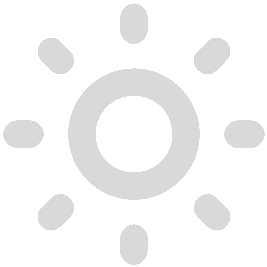
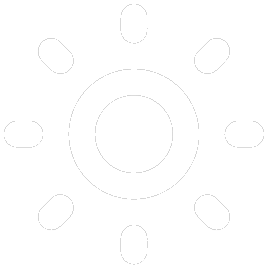
j

diff --git a/index.html b/index.html
@@ -8,47 +8,54 @@
 </head>
 <body>
     <div class="wrapper">
-        <div class="homebouton animate">
-            <img src="assets/img/dark/Home.png"  alt="Home Bouton"  data-img="Home.png">
+        <div class="homebouton">
+            <a href="index.html">
+            <img src="assets/img/dark/Home.png"  alt="Home Bouton"  data-img="Home">
+            </a>
         </div>
 
-        <div class="name animate">
+        <div class="name">
             <p class="familyname">Dassi Vignon</p>
             <p class="firstname">Quentin</p>
         </div>
 
-        <div class="changetheme animate">
-            <img class="lightmodebutton" id="changeColorButton" src="assets/img/dark/Light.png"  alt="Light" data-img="Light.png">
-            <img class="nightmodebutton" id="resetColorButton" src="assets/img/dark/Dark.png"  alt="Night"  data-img="Dark.png">
+        <div class="changetheme">
+            <img class="lightmodebutton" id="changeColorButton" src="assets/img/dark/Light.png"  alt="Light" data-img="Light" style="cursor: pointer;">
+            <img class="nightmodebutton" id="resetColorButton" src="assets/img/dark/Dark.png"  alt="Night"  data-img="Dark" style="cursor: pointer;">
         </div>
 
-        <div class="status animate">
+        <div class="status">
             <p class="etudiant">Étudiant</p>
             <p class="bachelor">Bachelor 1 d'informatique</p>
             <p class="dataengineer">Data Engineer</p>
         </div>
 
-        <div class="photo animate">
-            <!-- <img src="assets/img/photo.jpg" alt="Photo"> -->
+        <div class="photo">
+            <img src="assets/img/dark/photo.png" alt="Photo" data-img="Photo">
         </div>
 
+        
         <div class="contact">
+            <a href="assets/html/projet.html" style="color: inherit; text-decoration: none;">
             <p>Contact</p>
-            <img src="assets/img/fleche.png" alt="fleche.png">
+            <img src="assets/img/dark/fleche.png" alt="fleche.png" data-img="fleche">
+            </a>
         </div>
 
-        <div class="localisation animate">
-            <img src="assets/img/dark/Map.png" alt="Map icon"  data-img="Map.png">
+        <div class="localisation">
+            <img src="assets/img/dark/Map.png" alt="Map icon"  data-img="Map">
             <p>Paris Ynov
 Campus</p>
         </div>
 
         <div class="projet">
-            <p>Projets</p>
-            <img src="assets/img/dark/fleche.png" alt="fleche.png" data-img="fleche.png">
+            <a href="assets/html/projet.html" style="color: inherit; text-decoration: none;">
+                <p>Projets</p>
+                <img src="assets/img/dark/fleche.png" alt="fleche.png" data-img="fleche">
+            </a>
         </div>
     </div>
-    <script src="scrpit.js"></script> 
+    <script src="assets/js/scrpit.js"></script> 
     
 </body>
 </html>

diff --git a/assets/css/index.css b/assets/css/index.css
@@ -8,6 +8,9 @@ body {
     display: flex;
     justify-content: center; 
 }
+a, a:visited, a:hover, a:active {
+    text-decoration: none; 
+}
 
 .wrapper {
     display: grid;
@@ -59,6 +62,7 @@ body {
     grid-row: 1/2;
     text-align: center;
     white-space: nowrap;
+    cursor: default;
 }
 .name:hover {
     transform: scale(1.1);
@@ -113,6 +117,7 @@ body {
     text-align: center;
     white-space: nowrap;
     font-size: 100%;
+    cursor: default;
 }
 .status:hover {
     transform: scale(1.1);
@@ -166,7 +171,7 @@ body {
     top: 50%;
     left: 50%;
     transform: translate(-50%, -50%);
-    width: auto;
+    width: 100%;
     height: 100%;
     max-height: 100%;
     max-width: 100%; 
@@ -178,6 +183,18 @@ body {
 .contact {
     grid-column: 1/3;
     grid-row: 4/5;
+    cursor: pointer;
+}
+.contact a {
+    display: block;  /* Makes the link block-level to fill the div */
+    position: absolute;
+    width: 100%;
+    height: 100%;
+    top: 0;
+    left: 0;
+    text-decoration: none;  /* Removes underline from links */
+    color: inherit;  /* Inherits text color from parent */
+    z-index: 10;  /* Ensures the link is above all other content for clicking */
 }
 .contact p {
     position: absolute;
@@ -228,11 +245,13 @@ body {
     font-size: 2vw;
     text-align: center;
     white-space: pre;
+    cursor: default;
 }
 
 .projet {
     grid-column: 5/7;
     grid-row: 4/5;
+    cursor: pointer;
 }
 .projet p {
     position: absolute;
@@ -240,6 +259,17 @@ body {
     left: 40%;
     transform: translate(-50%, -50%);
     font-size: 3vw;
+}
+.projet a {
+    display: block;  /* Makes the link block-level to fill the div */
+    position: absolute;
+    width: 100%;
+    height: 100%;
+    top: 0;
+    left: 0;
+    text-decoration: none;  /* Removes underline from links */
+    color: inherit;  /* Inherits text color from parent */
+    z-index: 10;  /* Ensures the link is above all other content for clicking */
 }
 .projet img{
     position: absolute;

diff --git a/assets/js/scrpit.js b/assets/js/scrpit.js
@@ -6,9 +6,9 @@ document.getElementById("changeColorButton").addEventListener("click", function(
         element.style.color = "#101010";
     });
     // Modifier les chemins des images pour le mode clair
-    document.querySelectorAll(".changetheme img").forEach(function(img) {
-        img.src = "assets/img/dark/" + img.getAttribute("data-img");
-        console.log(img.src)
+    document.querySelectorAll("img").forEach(function(img) {
+        var imageName = img.getAttribute("data-img"); // Récupérer le nom de l'image sans l'extension
+        img.src = "assets/img/white/" + imageName + ".png"; // Modifier le chemin de l'image
     });
 });
 
@@ -20,8 +20,8 @@ document.getElementById("resetColorButton").addEventListener("click", function()
         element.style.color = "";
     });
     // Réinitialiser les chemins des images aux chemins par défaut
-    document.querySelectorAll(".changetheme img").forEach(function(img) {
-        img.src = "assets/img/dark/" + img.getAttribute("data-img");
+    document.querySelectorAll("img").forEach(function(img) {
+        var imageName = img.getAttribute("data-img"); // Récupérer le nom de l'image sans l'extension
+        img.src = "assets/img/dark/" + imageName + ".png";
     });
 });
-

diff --git a/assets/css/contact.css b/assets/css/contact.css
@@ -1,0 +1,58 @@
+* {
+    padding: 0;
+    margin: 0;
+}
+
+body {
+    background-color: #090909;
+    display: flex;
+    justify-content: center; 
+}
+a, a:visited, a:hover, a:active {
+    text-decoration: none; 
+}
+
+.wrapper {
+    display: grid;
+    align-content: center;
+    width: 65%;
+    height: 98vh;
+    grid-template-rows: 20% 20% 20% 20% ;
+    grid-template-columns: 15% 15% 15% 15% 15% 15%;
+    grid-gap: 2%;
+}
+
+.wrapper div{
+    color: #D9D9D9;
+    background-color: #101010;
+    border: none;
+    display: inline-block;
+    font-size: 45px;
+    border-radius: 15px;
+    box-shadow: 0 0 7px rgba(0, 0, 0, 0.767);
+    position: relative;
+    font-family: 'Beaufort for LOL', sans-serif;
+    transition: background-color 1s;
+}
+
+
+.homebouton{
+    grid-column: 1/2;
+    grid-row: 1/2;
+}
+.homebouton:hover {
+    transform: scale(1.1);
+    transition: transform 0.4s; 
+}
+.homebouton:not(:hover) {
+    transform: scale(1); 
+    transition: transform 0.4s; 
+}
+.homebouton img {
+    width : 90%;
+    position: absolute;
+    top: 50%;
+    left: 50%;
+    transform: translate(-50%, -50%);
+    transition: width 0.4s;
+}

diff --git a/assets/css/projets.css b/assets/css/projets.css
@@ -1,0 +1,58 @@
+* {
+    padding: 0;
+    margin: 0;
+}
+
+body {
+    background-color: #090909;
+    display: flex;
+    justify-content: center; 
+}
+a, a:visited, a:hover, a:active {
+    text-decoration: none; 
+}
+
+.wrapper {
+    display: grid;
+    align-content: center;
+    width: 65%;
+    height: 98vh;
+    grid-template-rows: 20% 20% 20% 20% ;
+    grid-template-columns: 15% 15% 15% 15% 15% 15%;
+    grid-gap: 2%;
+}
+
+.wrapper div{
+    color: #D9D9D9;
+    background-color: #101010;
+    border: none;
+    display: inline-block;
+    font-size: 45px;
+    border-radius: 15px;
+    box-shadow: 0 0 7px rgba(0, 0, 0, 0.767);
+    position: relative;
+    font-family: 'Beaufort for LOL', sans-serif;
+    transition: background-color 1s;
+}
+
+
+.homebouton{
+    grid-column: 1/2;
+    grid-row: 1/2;
+}
+.homebouton:hover {
+    transform: scale(1.1);
+    transition: transform 0.4s; 
+}
+.homebouton:not(:hover) {
+    transform: scale(1); 
+    transition: transform 0.4s; 
+}
+.homebouton img {
+    width : 90%;
+    position: absolute;
+    top: 50%;
+    left: 50%;
+    transform: translate(-50%, -50%);
+    transition: width 0.4s;
+}

diff --git a/assets/html/contact.html b/assets/html/contact.html
@@ -4,8 +4,16 @@
     <meta charset="UTF-8">
     <meta name="viewport" content="width=device-width, initial-scale=1.0">
     <title>Contact</title>
+    <link rel="stylesheet" href="../css/contact.css">
 </head>
 <body>
-    
+    <div class="wrapper">
+        <div class="homebouton">
+            <a href="../../index.html">
+            <img src="../img/dark/Home.png"  alt="Home Bouton"  data-img="Home">
+            </a>
+        </div>
+    </div>
+    <script src="assets/js/scrpit.js"></script> 
 </body>
 </html>

diff --git a/assets/html/projet.html b/assets/html/projet.html
@@ -4,8 +4,16 @@
     <meta charset="UTF-8">
     <meta name="viewport" content="width=device-width, initial-scale=1.0">
     <title>Projets</title>
+    <link rel="stylesheet" href="../css/projets.css">
 </head>
 <body>
-    
+    <div class="wrapper">
+        <div class="homebouton">
+            <a href="../../index.html">
+            <img src="../img/dark/Home.png"  alt="Home Bouton"  data-img="Home">
+            </a>
+        </div>
+    </div>
+    <script src="assets/js/scrpit.js"></script> 
 </body>
 </html>
